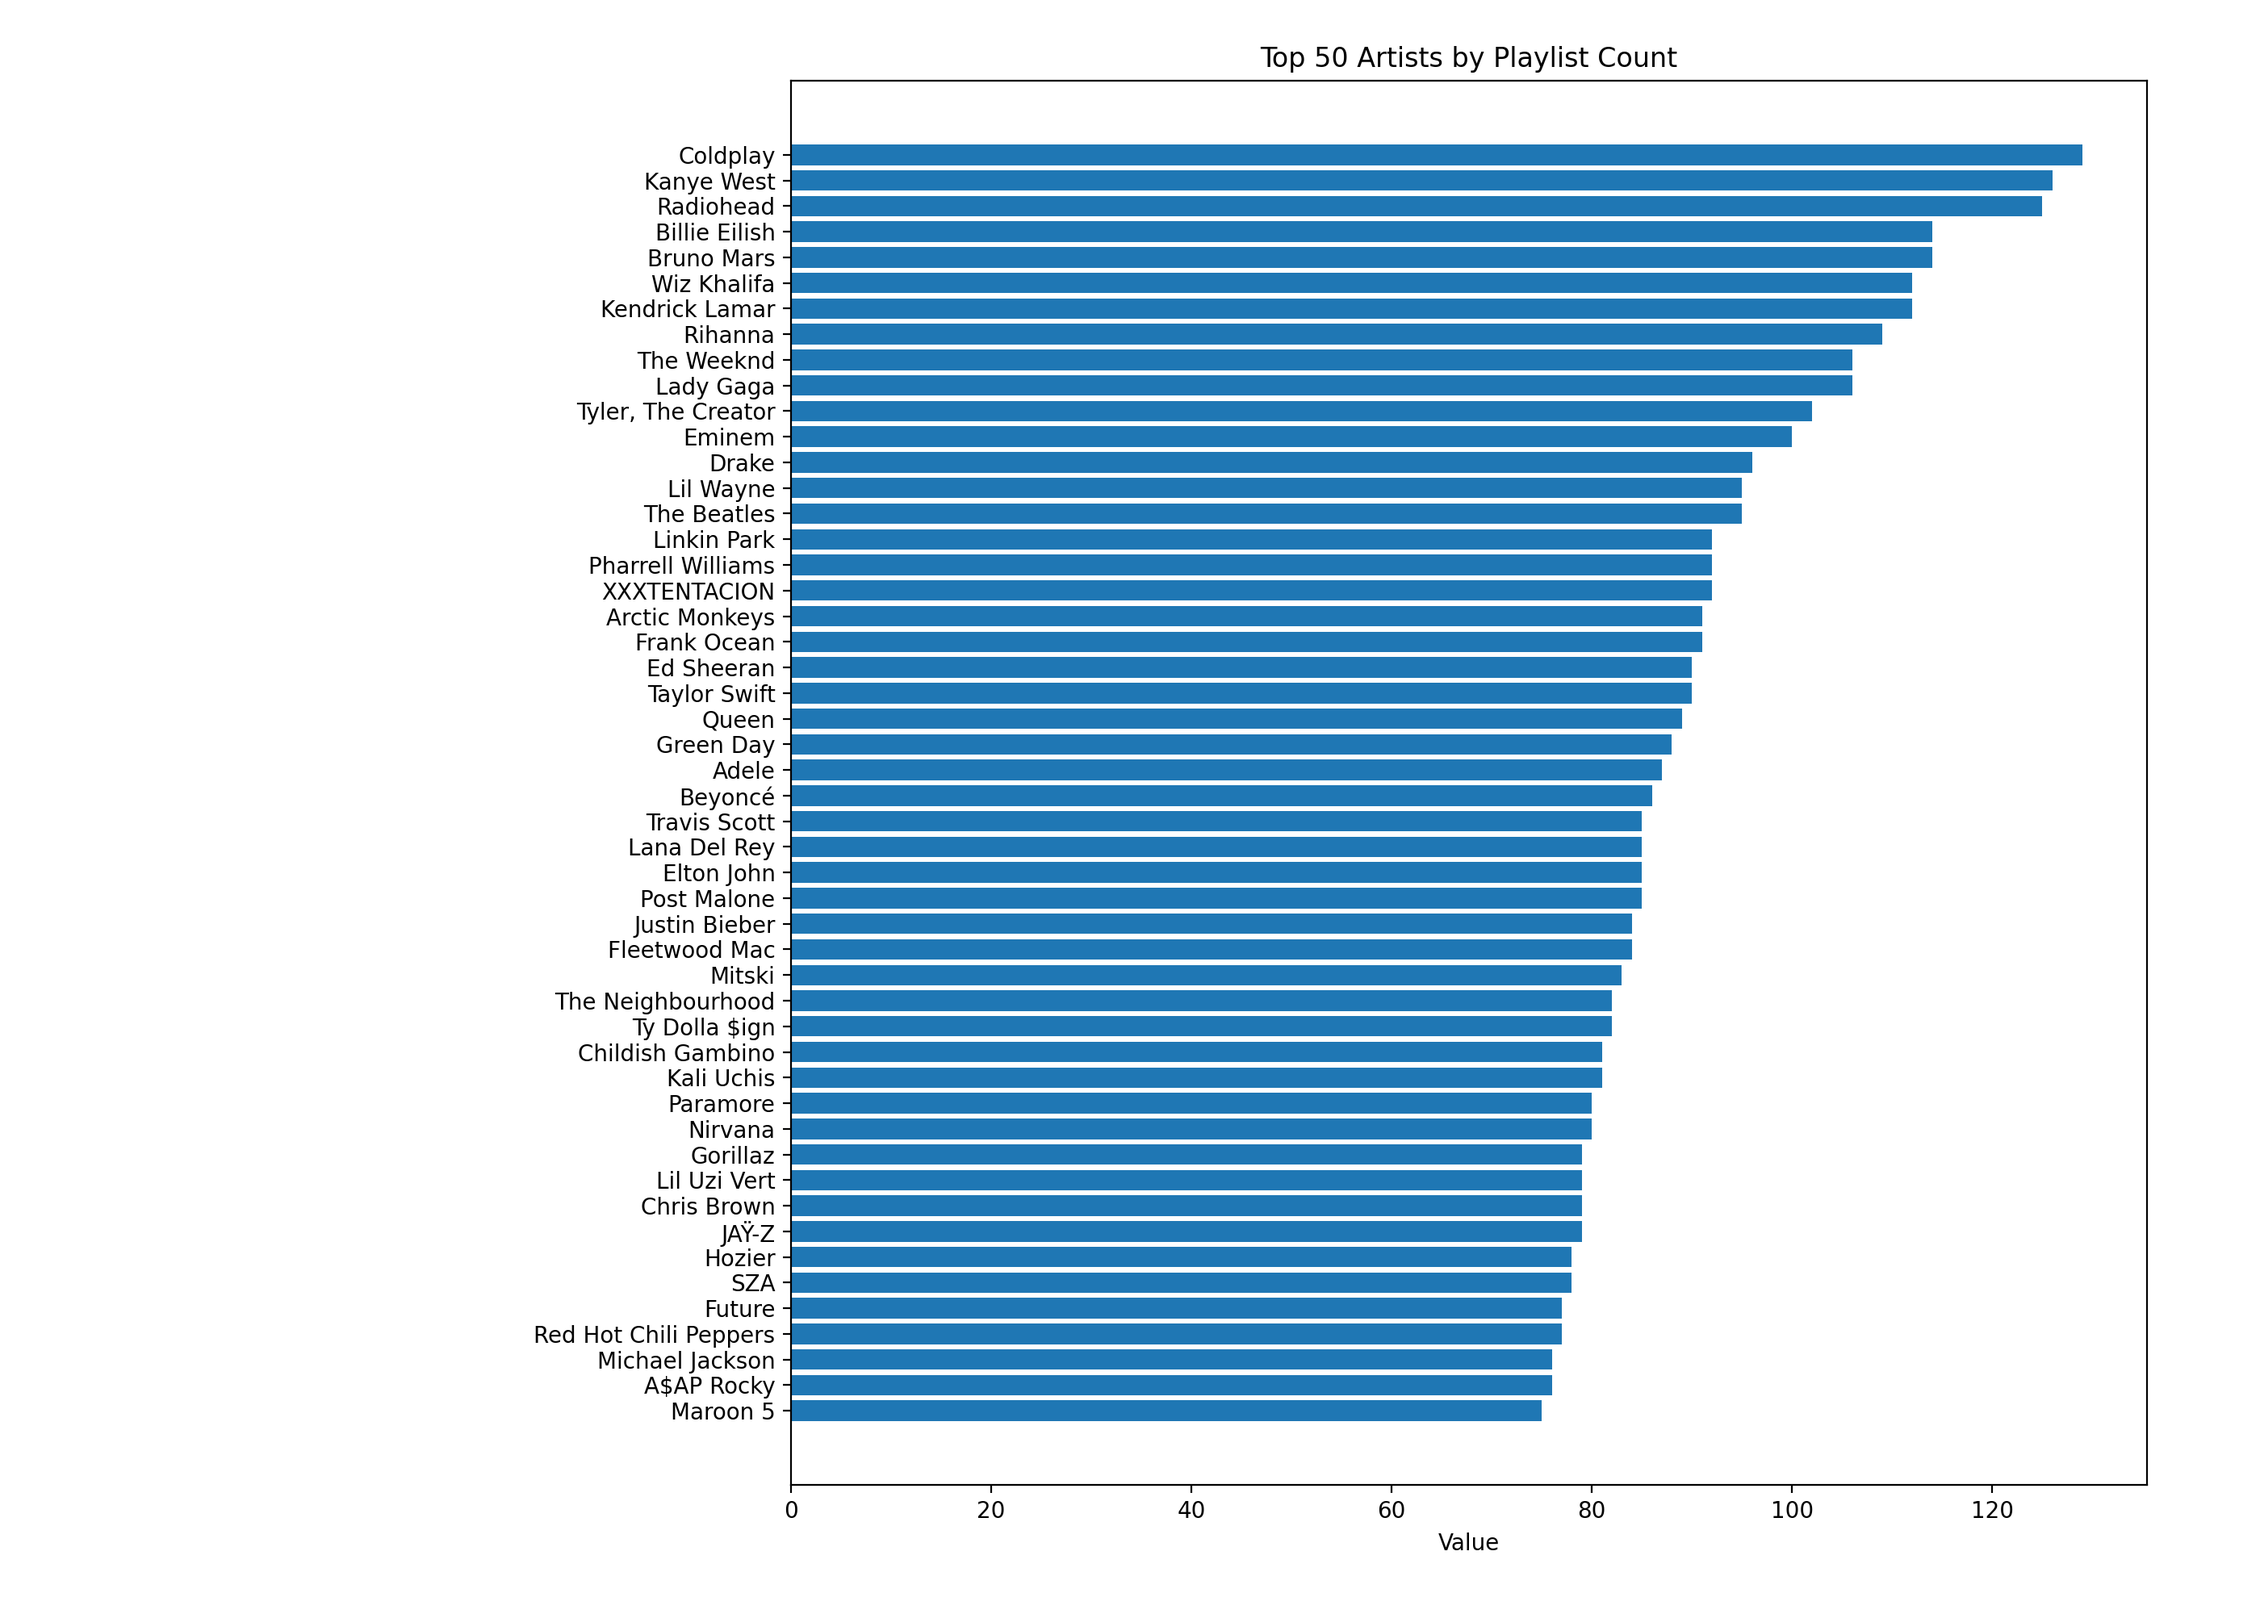
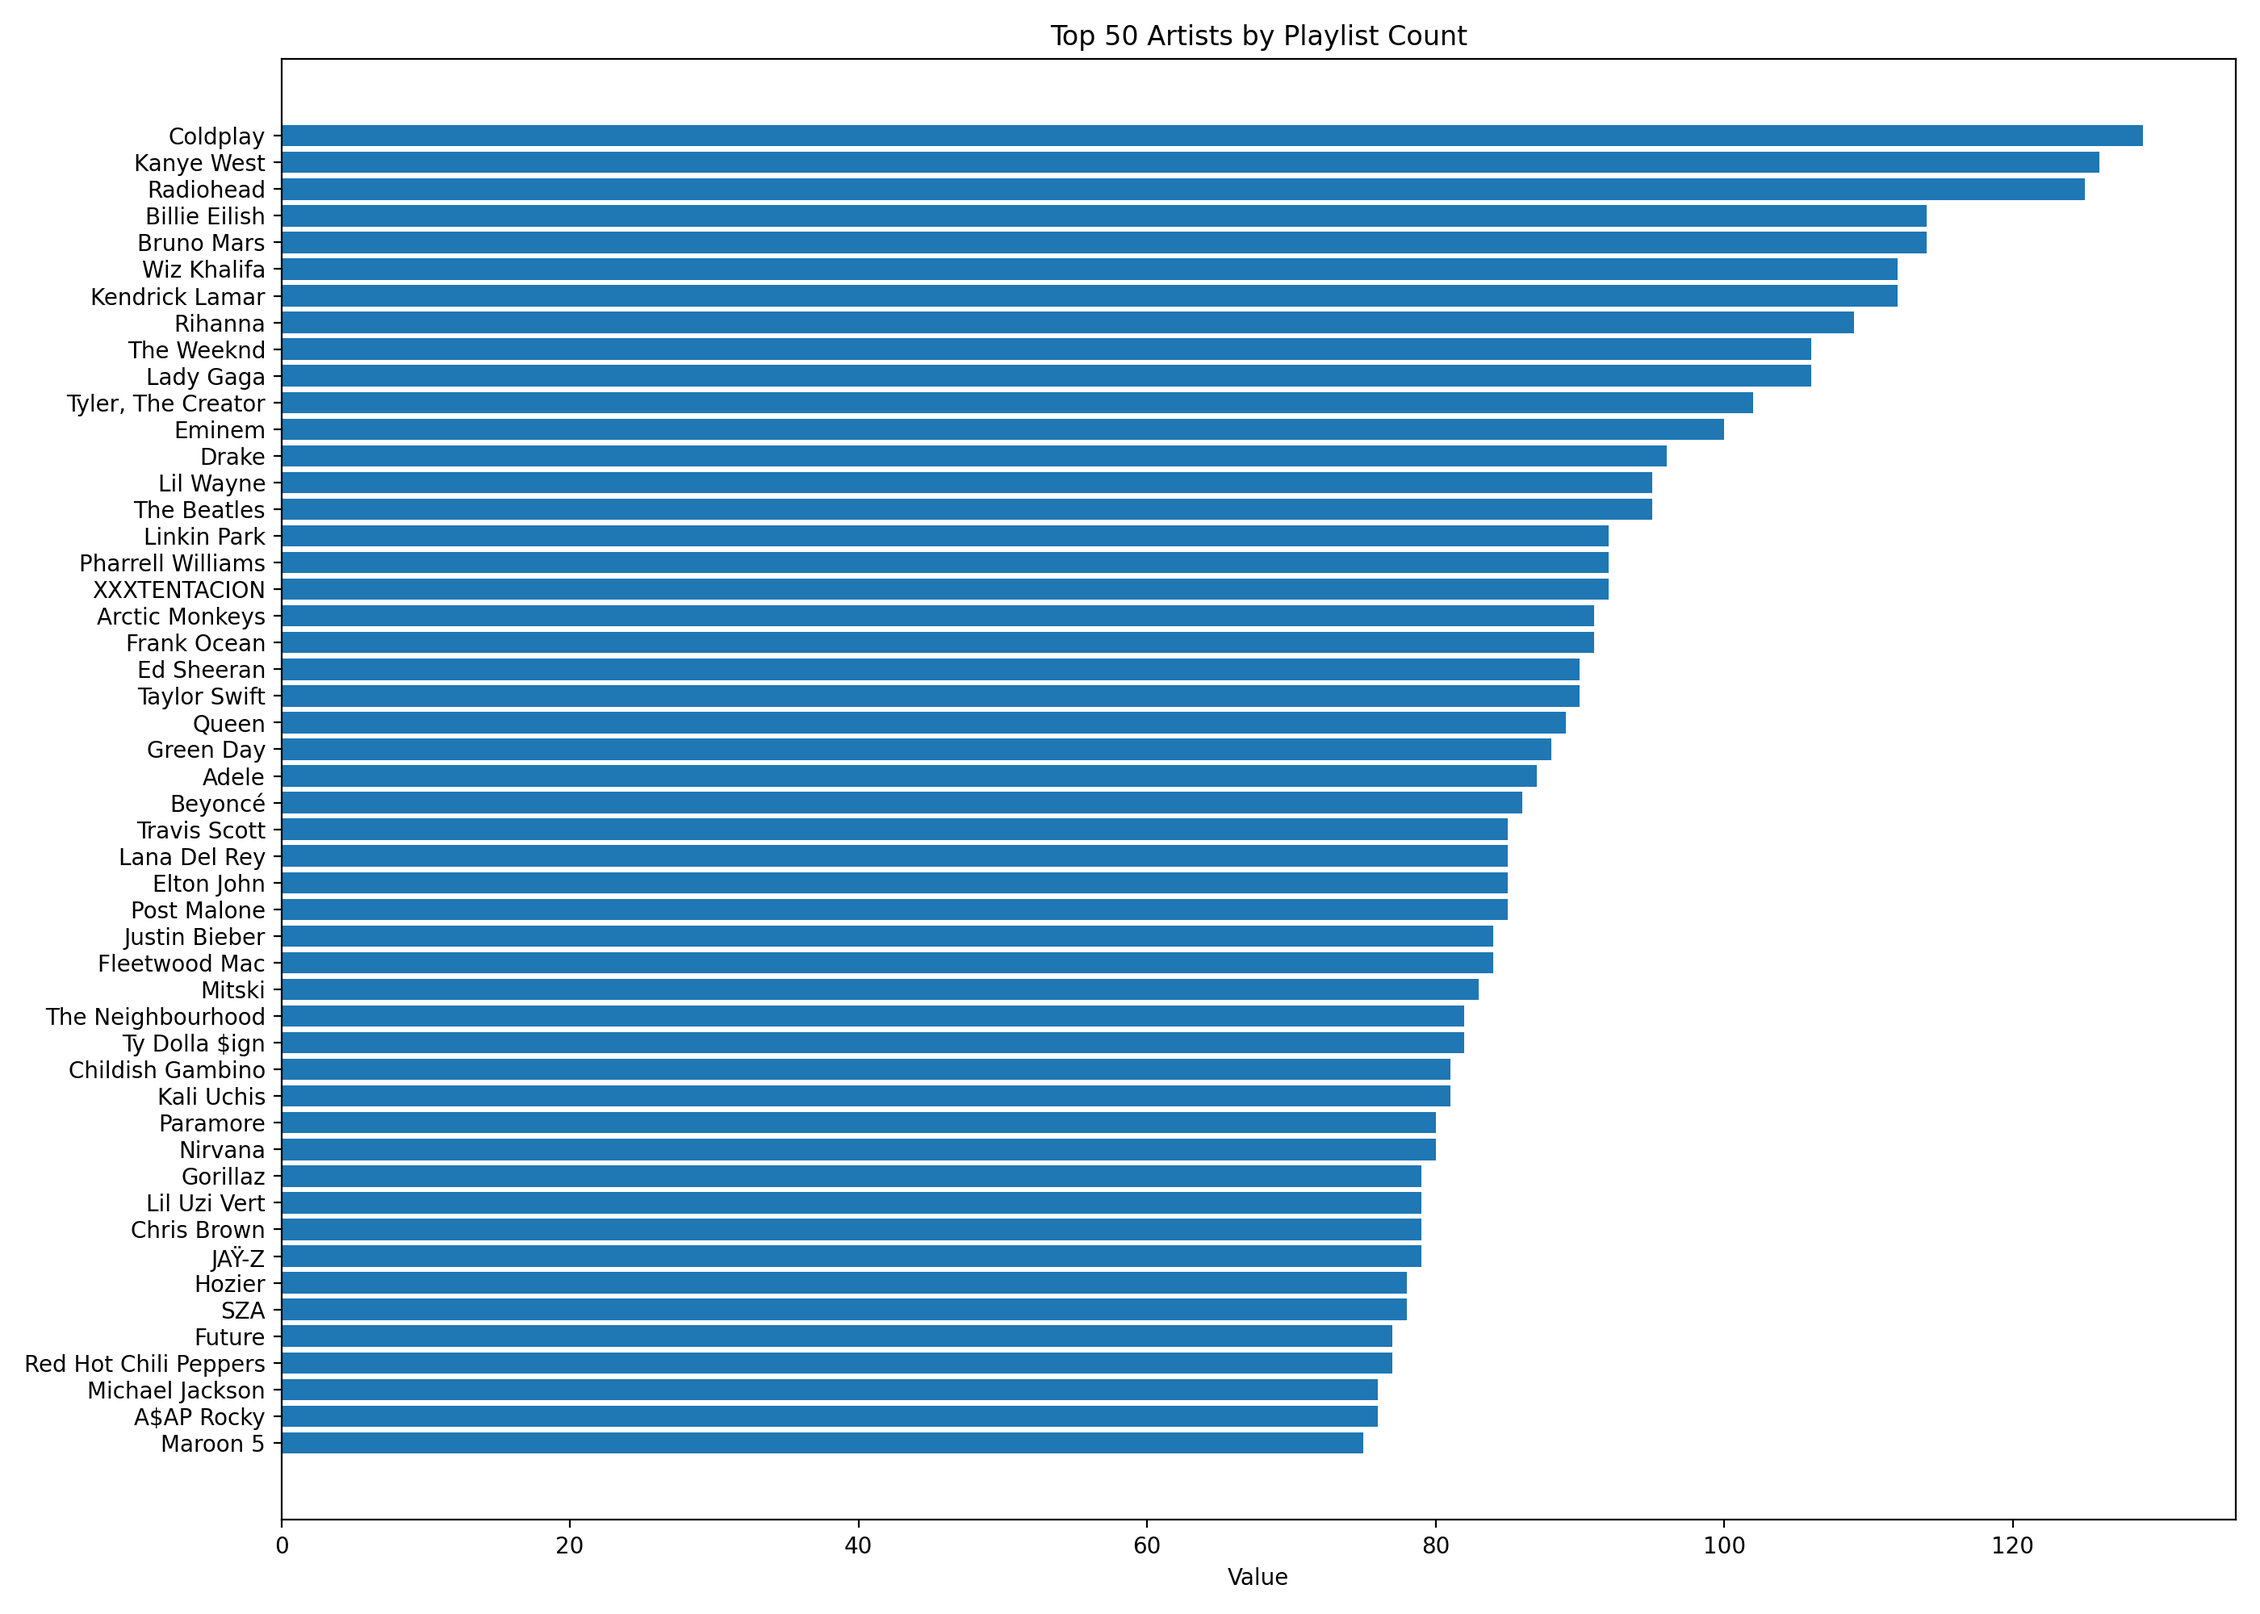
g

diff --git a/generate_overall_summary.py b/generate_overall_summary.py
@@ -29,7 +29,7 @@ def tokenize(text: str) -> list[str]:
         out.append(t)
     return out
 
-def save_barh(out_path: Path, title: str, labels: list, values: list):
+def save_barh(out_path: Path, title: str, labels: list, values: list, left_margin=None):
     if not labels:
         return
     # Reverse so top item is at top of bar chart
@@ -44,8 +44,11 @@ def save_barh(out_path: Path, title: str, labels: list, values: list):
     plt.title(title)
     plt.xlabel("Value")
     
-    # Manually adjust left margin to accommodate long labels (up to 60 chars)
-    plt.subplots_adjust(left=0.35, right=0.95, top=0.95, bottom=0.08)
+    if left_margin is not None:
+        # Manually adjust left margin to accommodate long labels
+        plt.subplots_adjust(left=left_margin, right=0.95, top=0.95, bottom=0.08)
+    else:
+        plt.tight_layout()
     
     plt.savefig(out_path, dpi=200)
     plt.close()
@@ -127,7 +130,7 @@ def main():
     save_barh(graphs_dir / "top_50_tracks_by_playlist_count.png", "Top 50 Tracks by Playlist Count", track_labels_pl, top_50_tracks_playlist["playlist_count"].tolist())
     
     track_labels_w = (top_50_tracks_weighted["trackName"] + " - " + top_50_tracks_weighted["trackArtists"]).tolist()
-    save_barh(graphs_dir / "top_50_tracks_by_weighted_score.png", "Top 50 Tracks by Weighted Score", track_labels_w, top_50_tracks_weighted["weighted_score"].tolist())
+    save_barh(graphs_dir / "top_50_tracks_by_weighted_score.png", "Top 50 Tracks by Weighted Score", track_labels_w, top_50_tracks_weighted["weighted_score"].tolist(), left_margin=0.35)
 
     # Artist graphs
     save_barh(graphs_dir / "top_50_artists_by_count.png", "Top 50 Artists by Count", top_50_artists["trackArtists"].tolist(), top_50_artists["count"].tolist())
